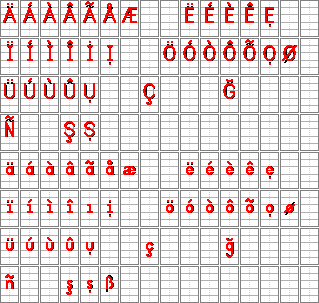
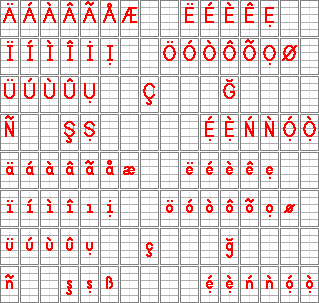
> Updated font assets for Delta Time composed Yoruba character extension * Fixed bug: Incrementing zoom with bottom bar buttons no longer snaps the focus to target pixel (0, 0)

diff --git a/src/com/jordanbunke/stipple_effect/visual/MenuAssembly.java b/src/com/jordanbunke/stipple_effect/visual/MenuAssembly.java
@@ -880,7 +880,7 @@ public class MenuAssembly {
                 IncrementalRangeElements.makeForFloat(zoomIndicator,
                         Layout.getBottomBarPosition().y + Layout.BUTTON_OFFSET,
                         bottomBarTextY, c.renderInfo::zoomOut,
-                        () -> c.renderInfo.zoomIn(c.getTargetPixel()),
+                        () -> c.renderInfo.zoomIn(Constants.NO_VALID_TARGET),
                         Constants.MIN_ZOOM, Constants.MAX_ZOOM,
                         c.renderInfo::setZoomFactor, c.renderInfo::getZoomFactor,
                         f -> (int) (Math.log(f) / Math.log(BASE)),

diff --git a/src/com/jordanbunke/stipple_effect/project/RenderInfo.java b/src/com/jordanbunke/stipple_effect/project/RenderInfo.java
@@ -28,9 +28,11 @@ public class RenderInfo {
     }
 
     private void adjustAnchorFromZoom(final Coord2D targetPixel) {
-        final Coord2D adjusted = new Coord2D((anchor.x + targetPixel.x) / 2,
-                (anchor.y + targetPixel.y) / 2);
-        setAnchor(adjusted);
+        if (!targetPixel.equals(Constants.NO_VALID_TARGET)) {
+            final Coord2D adjusted = new Coord2D((anchor.x + targetPixel.x) / 2,
+                    (anchor.y + targetPixel.y) / 2);
+            setAnchor(adjusted);
+        }
     }
 
     public void setZoomFactor(final float zoomFactor) {
